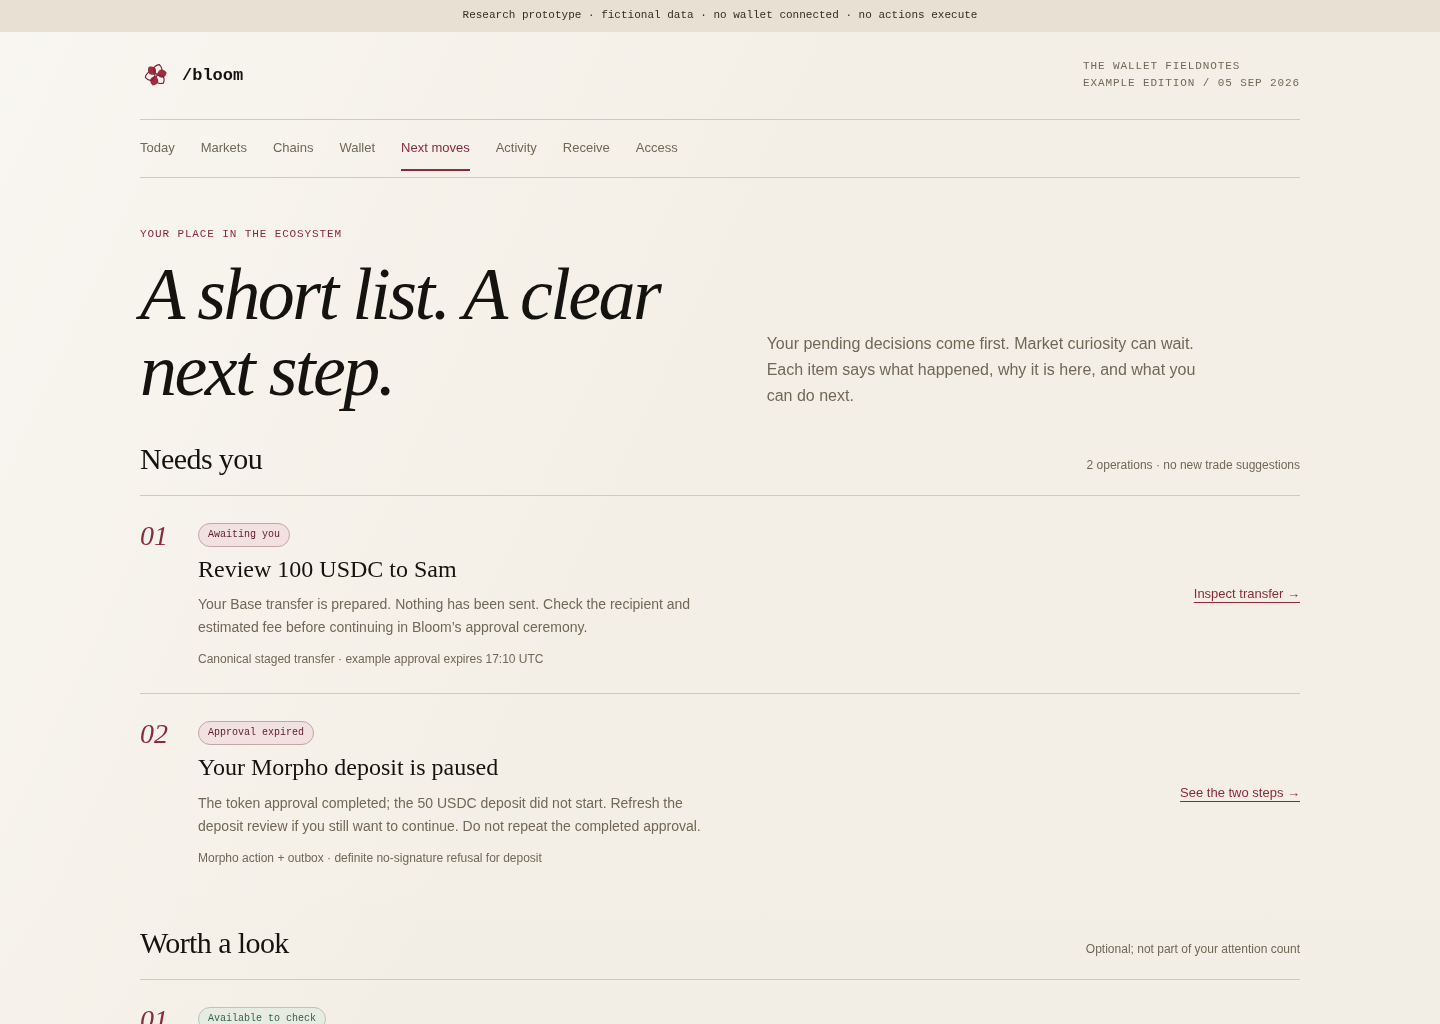
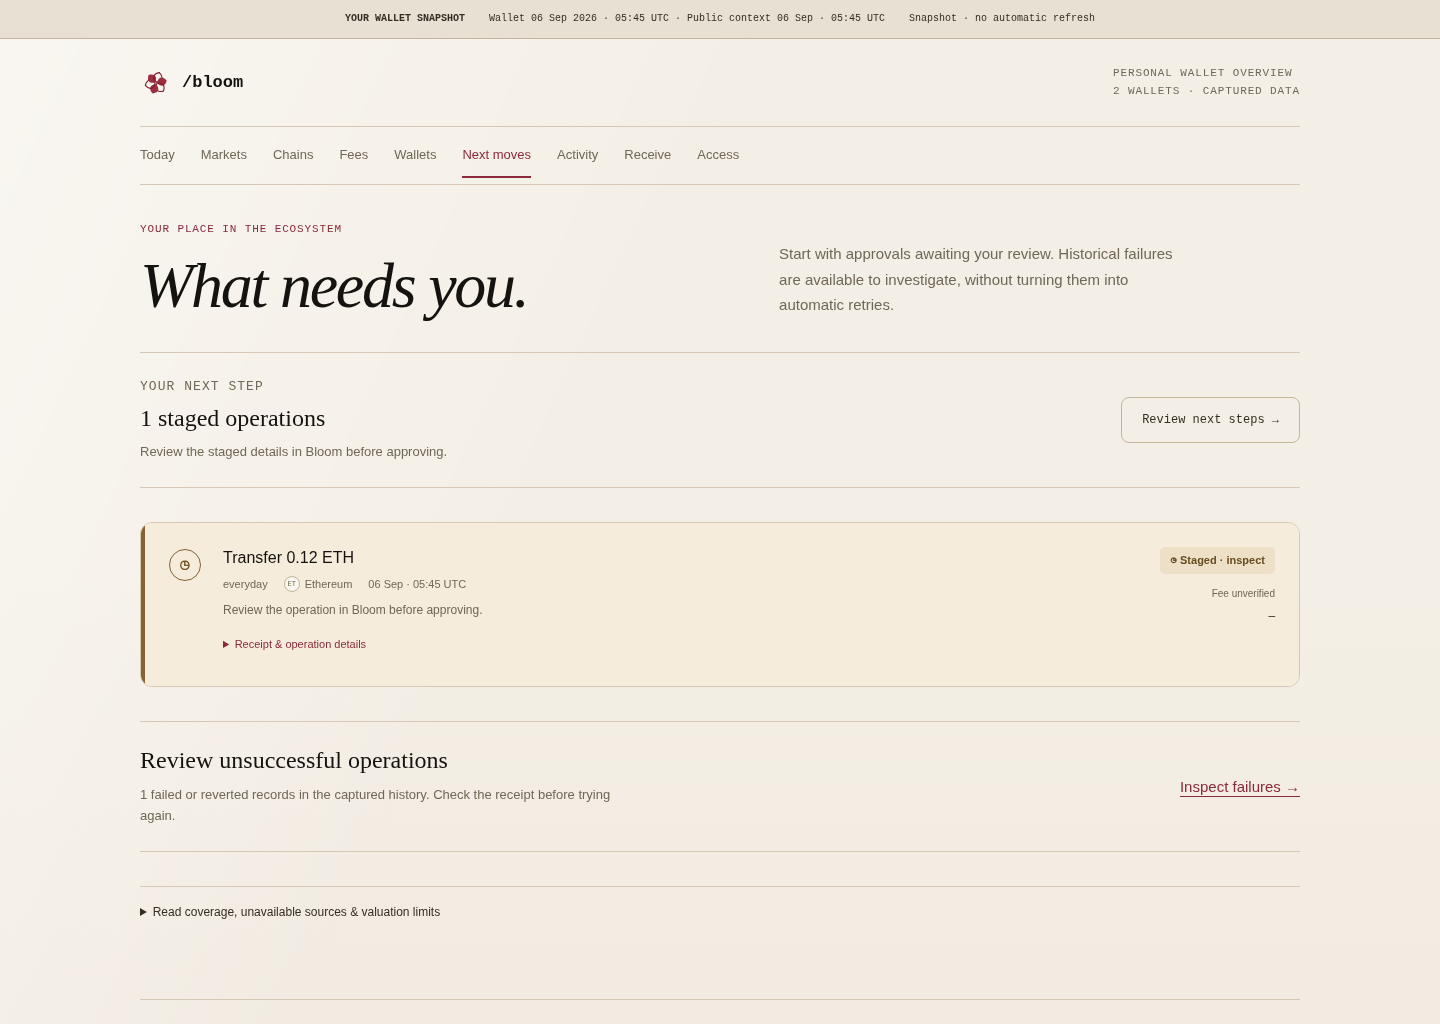
docs(research): refresh wallet view captures

diff --git a/docs/research/2026-07-17-vfs-view-decision.md b/docs/research/2026-07-17-vfs-view-decision.md
@@ -11,15 +11,20 @@ of the prototype, not an implementation footnote.
 
 ## Rendered review gallery
 
-These are current captures of the committed pages, using fictional data:
+These captures use the current private-dashboard renderer in `live.py` with an
+explicitly synthetic preview snapshot. They exercise the same page templates as
+a daemon capture without publishing wallet data. The earlier July fixture pages
+remain available as design history; they are not represented as the current UI.
 
-| Today | Activity |
+| Today | Wallets |
 | --- | --- |
-| ![Today wallet briefing](vfs-view-mockups/preview.png) | ![Wallet activity and outcomes](vfs-view-mockups/preview-activity.png) |
+| ![Current Today wallet briefing](vfs-view-mockups/preview.png) | ![Current wallet holdings](vfs-view-mockups/preview-wallets.png) |
 
 | Next moves | Receive |
 | --- | --- |
-| ![Prioritized wallet next moves](vfs-view-mockups/preview-next-moves.png) | ![Network-qualified receiving guidance](vfs-view-mockups/preview-receive.png) |
+| ![Current prioritized wallet next moves](vfs-view-mockups/preview-next-moves.png) | ![Current network-qualified receiving guidance](vfs-view-mockups/preview-receive.png) |
+
+![Current wallet activity and outcomes](vfs-view-mockups/preview-activity.png)
 
 ## Product decision
 
